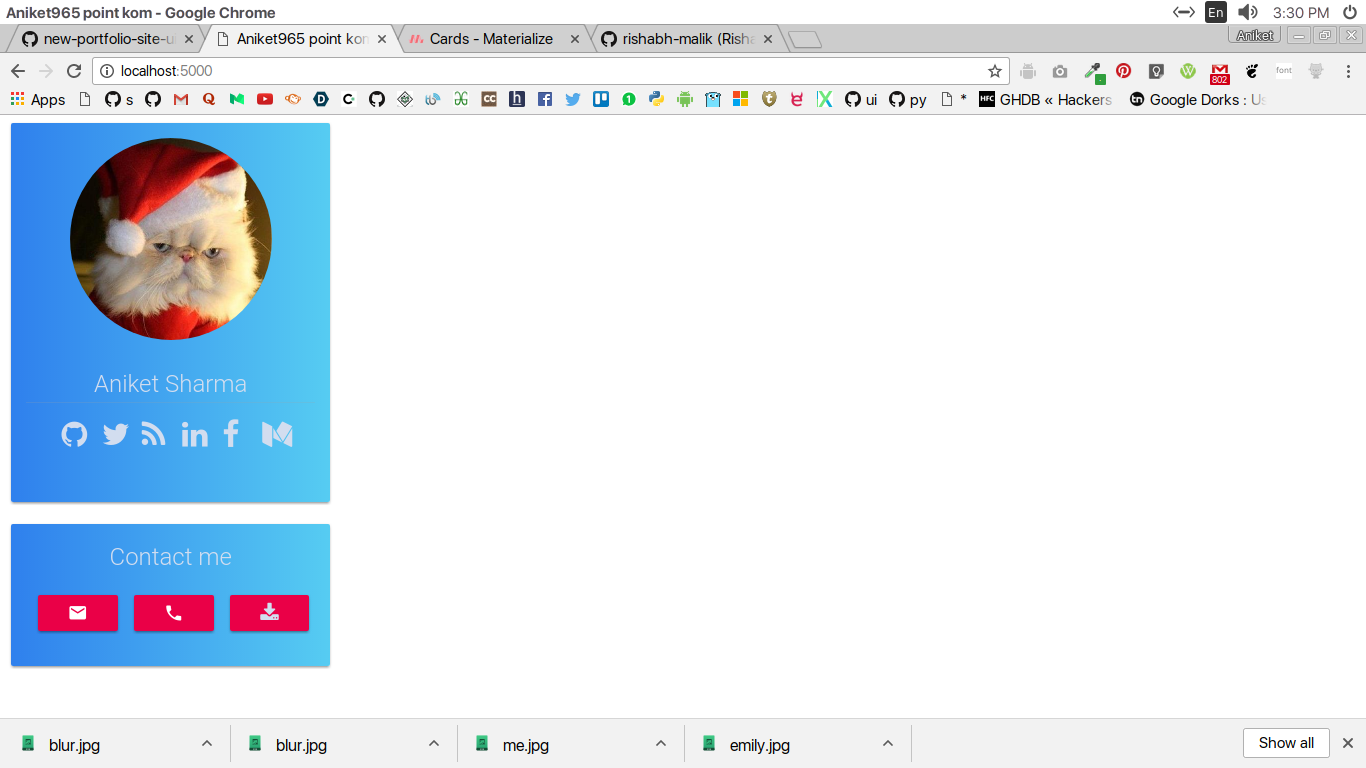
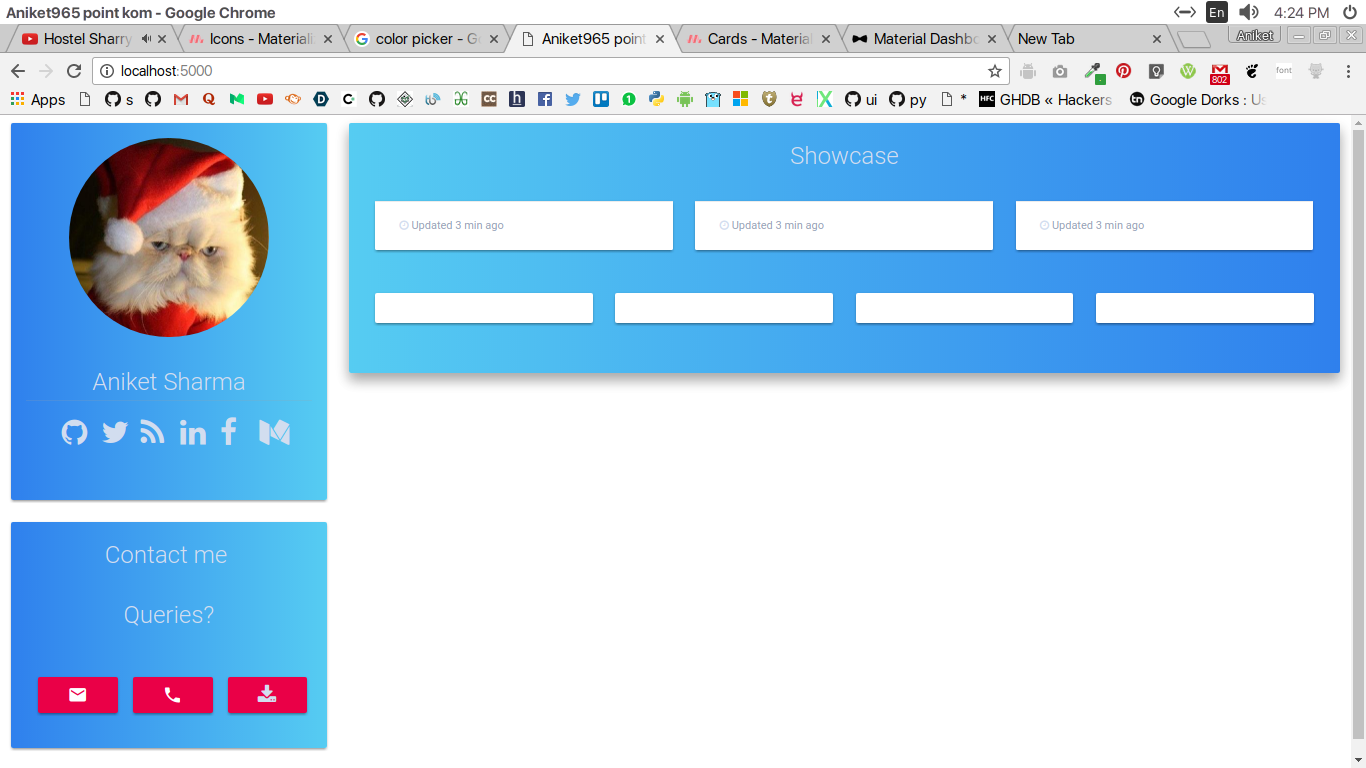
showcase midway

diff --git a/public/index.html b/public/index.html
@@ -35,7 +35,50 @@
             </div>
           </div>
           <div class="col s12 m9 l9">
-            <div class="showcase-view"></div>
+            <div class="showcase-view">
+              <div class="card gradinv hoverable">
+                <div class="row">
+                  <div class="card-title center-align">Showcase</div>
+                </div>
+                <div class="row">
+                  <div class="col s12 m12 l4">
+                    <div class="card nopad">
+                      <div class="card-action nopad align-left">
+                        <div class="updatemessage"> <i class="fa fa-clock-o"></i> Updated 3 min ago</div>
+                      </div>
+                    </div>
+                  </div>
+                  <div class="col s12 m12 l4">
+                    <div class="card nopad">
+                      <div class="card-action nopad align-left">
+                        <div class="updatemessage"> <i class="fa fa-clock-o"></i> Updated 3 min ago</div>
+                      </div>
+                    </div>
+                  </div>
+                  <div class="col s12 m12 l4">
+                    <div class="card nopad">
+                      <div class="card-action nopad align-left">
+                        <div class="updatemessage"> <i class="fa fa-clock-o"></i> Updated 3 min ago</div>
+                      </div>
+                    </div>
+                  </div>
+                </div>
+                <div class="row">
+                  <div class="col s6 m6 l3">
+                    <div class="card"></div>
+                  </div>
+                  <div class="col s6 m6 l3">
+                    <div class="card"></div>
+                  </div>
+                  <div class="col s6 m6 l3">
+                    <div class="card"></div>
+                  </div>
+                  <div class="col s6 m6 l3">
+                    <div class="card"></div>
+                  </div>
+                </div>
+              </div>
+            </div>
           </div>
         </div>
       </div>

diff --git a/public/css/style.css b/public/css/style.css
@@ -35,6 +35,15 @@
     /* W3C, IE 10+/ Edge, Firefox 16+, Chrome 26+, Opera 12+, Safari 7+ */
 }
 
+.gradinv {
+    background: #56CCF2;
+    /* fallback for old browsers */
+    background: -webkit-linear-gradient(to right, #56CCF2, #2F80ED);
+    /* Chrome 10-25, Safari 5.1-6 */
+    background: linear-gradient(to right, #56CCF2, #2F80ED);
+    /* W3C, IE 10+/ Edge, Firefox 16+, Chrome 26+, Opera 12+, Safari 7+ */
+}
+
 .card {
     padding: 1rem;
 }
@@ -51,6 +60,11 @@
 .nopad {
     padding: 0;
 }
-.lv{
+
+.lv {
     background: #ea0047;
+}
+.updatemessage{
+    font-size: 0.5rem;
+    color: #98a3b7;
 }
